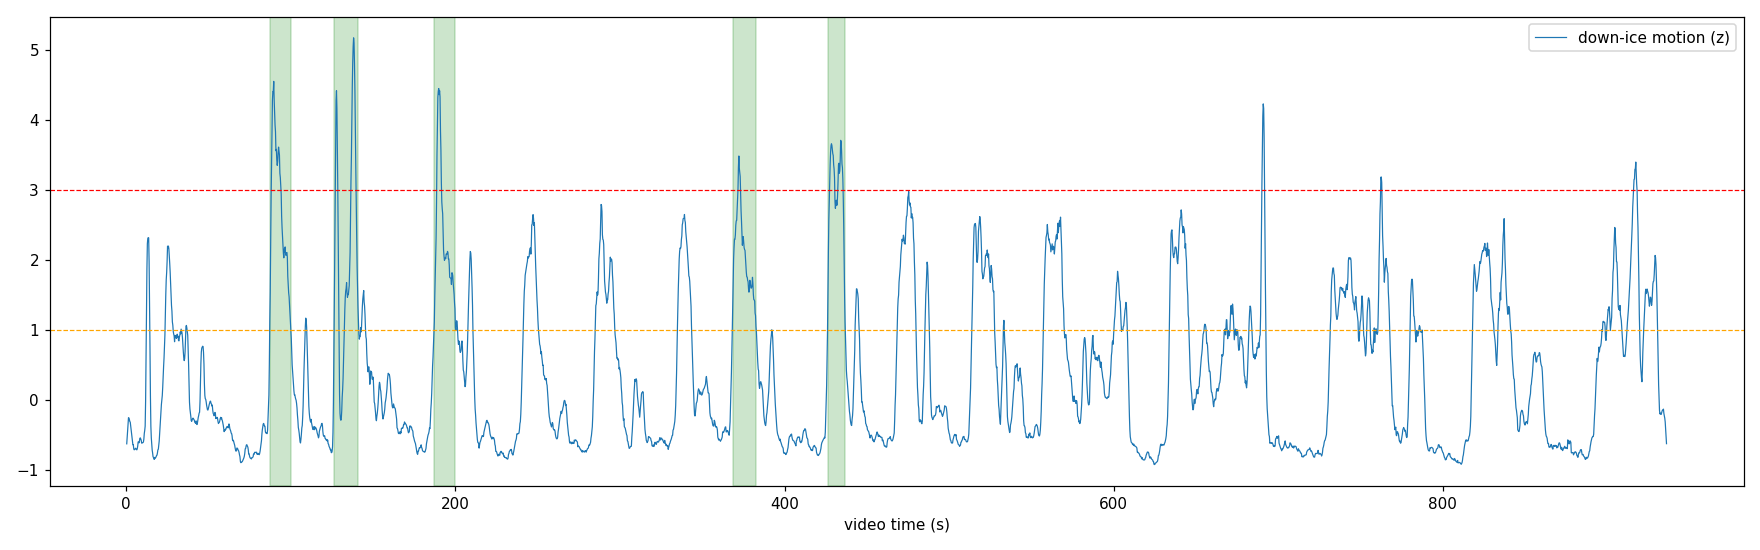
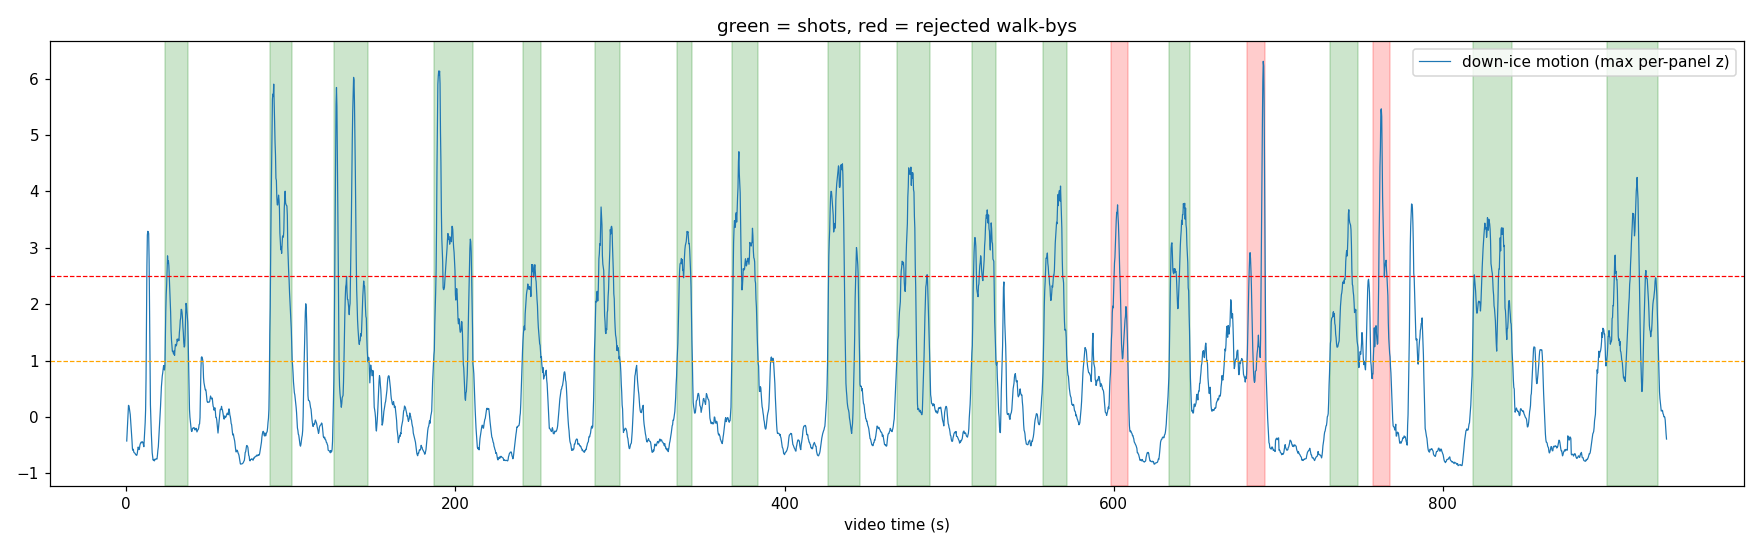
Detect all 16 shots in the test end with 0 false positives
Validated against the real clip with frame-level review of every ambiguous
event. Two fixes over the first cut:

- Per-panel robust z-scores (max-combined) instead of z-scoring the summed
  down-ice motion: a delivery seen mostly by the far camera was diluted to
  invisibility, which is why the end's first shot was missed.
- Walk-by rejection via house-cam phase ordering: a shot crosses the
  delivery-end house early and the arrival house late; players walking back
  between shots cross them in the opposite order. This rejects all 3
  walk-by bursts that down-ice motion alone cannot distinguish from shots.

Default --high is now 2.5 (per-panel z), with --direction and
--keep-walkbys escape hatches. results/validation.md documents ground
truth, boundary spot checks, and the discarded discriminators (persistent
house change, stone-state comparison). Supersedes the shots_high2 runs.

https://claude.ai/code/session_01MNKhrUA8bh9zUdwcJneQ2v

Changed region(s): [[0.0312, 0.0309, 1.0, 0.8964], [0.0, 0.8345, 0.0312, 0.8655], [0.0, 0.2164, 0.0312, 0.2473]]

diff --git a/src/detect_shots.py b/src/detect_shots.py
@@ -1,17 +1,32 @@
 #!/usr/bin/env python3
 """Detect shot start/end boundaries in a curling livestream video.
 
-Samples the video at a few fps, computes motion energy in each camera region
-(see regions.py), and segments shots with hysteresis thresholding:
+Two stages:
 
-  - a shot becomes active when the smoothed down-ice motion signal rises above
-    `high` (delivery + sweepers moving),
-  - its boundaries are walked outward until the signal drops below `low`
-    (ice quiet again / rocks stopped).
+1. Candidate segmentation. The video is sampled at a few fps and motion energy
+   is computed per camera region (see regions.py). Each down-ice panel gets its
+   own robust z-score and the per-sample max of the two is segmented with
+   hysteresis thresholding: a candidate becomes active when the signal rises
+   above `high` (delivery + sweepers), and its boundaries are walked outward
+   until the signal drops below `low` (ice quiet / rocks stopped). Per-panel
+   z-scores matter: a delivery seen mostly by the far camera is diluted to
+   invisibility if the two panels are summed first.
 
-Outputs a CSV of (shot, start_s, end_s, duration_s, peak_motion) and an
-optional diagnostic plot. Thresholds are in robust z-score units (median/MAD),
-so they should transfer across resolutions and lighting.
+2. Walk-by rejection. People walking down the ice between shots produce motion
+   bursts that look just like deliveries in the down-ice panels. The overhead
+   house cams disambiguate: a shot crosses the delivery-end house early in the
+   segment and reaches the arrival-end house late (stone + sweepers arriving),
+   while a walker headed back to the delivery end crosses the arrival house
+   first. Candidates whose house-cam motion peaks in the wrong order are
+   rejected. Play direction is inferred per video by majority vote (most
+   candidates are real shots), or forced with --direction.
+
+Caveat: a walker moving in the same direction as play has the same phase
+signature as a shot and will not be rejected; none occur in the test end.
+
+Outputs a CSV of (shot, start_s, end_s, duration_s, peak_z) and an optional
+diagnostic plot. Thresholds are in robust z-score units (median/MAD), so they
+should transfer across resolutions and lighting.
 """
 import argparse
 import csv
@@ -68,7 +83,7 @@ def robust_z(x):
     return (x - med) / (1.4826 * mad)
 
 
-def segment(t, sig, high=3.0, low=1.0, min_dur=8.0, merge_gap=6.0):
+def segment(t, sig, high=2.5, low=1.0, min_dur=8.0, merge_gap=6.0):
     """Hysteresis segmentation: seeds where sig > high, grown out to sig < low."""
     active = sig > high
     segs = []
@@ -96,15 +111,28 @@ def segment(t, sig, high=3.0, low=1.0, min_dur=8.0, merge_gap=6.0):
     return [(s, e) for s, e in merged if t[e] - t[s] >= min_dur]
 
 
+def house_peak_positions(t, ztop, zbot, s, e, tail=6.0):
+    """Position (0..1) of each house cam's motion peak within segment [s, e]."""
+    t0, t1 = t[s], t[e] + tail
+    m = (t >= t0) & (t <= t1)
+    tt = t[m]
+    pos = lambda z: (tt[np.argmax(z[m])] - t0) / (t1 - t0)
+    return pos(ztop), pos(zbot)
+
+
 def main():
     ap = argparse.ArgumentParser()
     ap.add_argument("video")
     ap.add_argument("--fps", type=float, default=4.0, help="sampling rate")
     ap.add_argument("--start", type=float, help="analyze from this time (s)")
     ap.add_argument("--end", type=float, help="analyze until this time (s)")
-    ap.add_argument("--high", type=float, default=3.0, help="shot trigger threshold (z)")
+    ap.add_argument("--high", type=float, default=2.5, help="shot trigger threshold (z)")
     ap.add_argument("--low", type=float, default=1.0, help="boundary threshold (z)")
     ap.add_argument("--min-dur", type=float, default=8.0, help="min shot duration (s)")
+    ap.add_argument("--direction", choices=["auto", "up", "down"], default="auto",
+                    help="play direction: 'up' = stones arrive in the top house cam")
+    ap.add_argument("--keep-walkbys", action="store_true",
+                    help="skip the house-phase walk-by filter")
     ap.add_argument("--out", default="results/shots.csv")
     ap.add_argument("--plot", action="store_true")
     args = ap.parse_args()
@@ -113,11 +141,29 @@ def main():
     if len(t) < 10:
         raise SystemExit("not enough frames")
 
-    downice = vals[:, names.index("left")] + vals[:, names.index("right")]
-    # smooth over ~2 s
-    k = max(1, int(2 * args.fps))
-    sig = robust_z(np.convolve(downice, np.ones(k) / k, mode="same"))
-    segs = segment(t, sig, args.high, args.low, args.min_dur)
+    k = max(1, int(2 * args.fps))  # ~2 s smoothing
+    smooth = lambda x: np.convolve(x, np.ones(k) / k, mode="same")
+    z = {n: robust_z(smooth(vals[:, i])) for i, n in enumerate(names)}
+    sig = np.maximum(z["left"], z["right"])
+    cands = segment(t, sig, args.high, args.low, args.min_dur)
+
+    # walk-by rejection: arrival-house motion must peak after delivery-house motion
+    phases = [house_peak_positions(t, z["house_top"], z["house_bot"], s, e) for s, e in cands]
+    if args.keep_walkbys:
+        keep = [True] * len(cands)
+    else:
+        if args.direction == "auto":
+            up_votes = sum(1 for top, bot in phases if top > bot)
+            direction = "up" if up_votes * 2 >= len(cands) else "down"
+        else:
+            direction = args.direction
+        margin = 0.4  # arrival-house peak must also land in the later part of the segment
+        keep = [(top > bot and top >= margin) if direction == "up"
+                else (bot > top and bot >= margin)
+                for top, bot in phases]
+
+    segs = [c for c, k_ in zip(cands, keep) if k_]
+    rejected = [c for c, k_ in zip(cands, keep) if not k_]
 
     os.makedirs(os.path.dirname(args.out) or ".", exist_ok=True)
     with open(args.out, "w", newline="") as fh:
@@ -126,11 +172,14 @@ def main():
         for i, (s, e) in enumerate(segs, 1):
             w.writerow([i, round(t[s], 1), round(t[e], 1), round(t[e] - t[s], 1),
                         round(float(sig[s : e + 1].max()), 2)])
-    print(f"{len(segs)} shots -> {args.out}")
+    print(f"{len(segs)} shots ({len(rejected)} walk-bys rejected) -> {args.out}")
     for i, (s, e) in enumerate(segs, 1):
         m0, s0 = divmod(int(t[s]), 60)
         m1, s1 = divmod(int(t[e]), 60)
         print(f"  shot {i:2d}: {m0}:{s0:02d} - {m1}:{s1:02d}  ({t[e]-t[s]:.0f}s)")
+    for s, e in rejected:
+        m0, s0 = divmod(int(t[s]), 60)
+        print(f"  rejected walk-by at {m0}:{s0:02d}")
 
     if args.plot:
         import matplotlib
@@ -139,12 +188,15 @@ def main():
         import matplotlib.pyplot as plt
 
         fig, ax = plt.subplots(figsize=(16, 5))
-        ax.plot(t, sig, lw=0.8, label="down-ice motion (z)")
+        ax.plot(t, sig, lw=0.8, label="down-ice motion (max per-panel z)")
         for s, e in segs:
             ax.axvspan(t[s], t[e], color="g", alpha=0.2)
+        for s, e in rejected:
+            ax.axvspan(t[s], t[e], color="r", alpha=0.2)
         ax.axhline(args.high, color="r", ls="--", lw=0.8)
         ax.axhline(args.low, color="orange", ls="--", lw=0.8)
         ax.set_xlabel("video time (s)")
+        ax.set_title("green = shots, red = rejected walk-bys")
         ax.legend()
         png = os.path.splitext(args.out)[0] + ".png"
         plt.tight_layout()

diff --git a/src/regions.py b/src/regions.py
@@ -1,15 +1,18 @@
 """Camera-region layout of the composite livestream frame, as width/height fractions.
 
 Layout (measured on https://www.youtube.com/watch?v=a2EJcV29ido):
-  - left:  down-ice camera, one end. Height capped at 0.94 to mask the
-           burned-in red wall clock in the bottom-left corner.
-  - house: vertical strip with two stacked overhead house cams.
-  - right: down-ice camera, other end.
+  - left:      down-ice camera, one end. Height capped at 0.94 to mask the
+               burned-in red wall clock in the bottom-left corner.
+  - house_top: overhead house cam, top half of the center strip.
+  - house_bot: overhead house cam, bottom half (a small band around the seam
+               between the two cams is excluded).
+  - right:     down-ice camera, other end.
 """
 
 REGIONS = {
     "left": (0.00, 0.42, 0.00, 0.94),   # x0, x1, y0, y1
-    "house": (0.42, 0.58, 0.00, 1.00),
+    "house_top": (0.42, 0.58, 0.00, 0.44),
+    "house_bot": (0.42, 0.58, 0.56, 1.00),
     "right": (0.58, 1.00, 0.00, 1.00),
 }
 

diff --git a/README.md b/README.md
@@ -9,7 +9,27 @@ Test video: https://www.youtube.com/watch?v=a2EJcV29ido
 ("6/8 - Sheet 1 - Spring Monday Open League 2026"), focusing on the end at
 **15:22 – 30:58** for prototyping.
 
-## Findings so far (proof of concept)
+## Status: shot boundary detection works on real video
+
+On the real 15:22–30:58 clip (`data/end_test.mp4`), `src/detect_shots.py` detects
+**16/16 shots with 0 false positives**, rejecting all 3 "walk-by" events (players
+walking down the ice between shots). See `results/validation.md` for how ground
+truth was established and `results/shots.csv` for the boundaries.
+
+Two findings that made it work:
+
+1. **Per-panel normalization.** Each down-ice camera gets its own robust z-score
+   and the per-sample max is used. Summing the panels first dilutes deliveries
+   seen mostly by the far camera (this missed the first shot of the test end).
+2. **House-cam phase ordering rejects walk-bys.** A shot crosses the
+   delivery-end house cam early in its motion segment and reaches the arrival
+   house late; a walker returning to the delivery end crosses the houses in the
+   opposite order. Down-ice motion alone cannot make this distinction.
+
+Detected shot durations already show the expected pattern: ~9–20 s for early
+(lead/second) stones, stretching to 24–31 s for the final skip stones.
+
+## Earlier findings (storyboard proof of concept)
 
 The stream is a fixed-layout composite of three views:
 
@@ -60,9 +80,11 @@ python src/analyze_storyboard.py data/sb_tiles --start 922 --end 1858 --out resu
 python src/detect_shots.py data/end_test.mp4 --plot --out results/shots.csv
 ```
 
-`detect_shots.py` samples the video at ~4 fps, computes motion energy in the three
-camera regions, and segments shots with hysteresis thresholding (a shot is "active"
-while motion stays elevated; boundaries are walked out to the quiet baseline).
+`detect_shots.py` samples the video at ~4 fps, computes motion energy per camera
+region, segments candidates with hysteresis thresholding (a shot is "active" while
+motion stays elevated; boundaries are walked out to the quiet baseline), then
+rejects walk-bys using the house-cam phase rule. Play direction is auto-detected
+(`--direction` to force it).
 
 ## Environment limitation (why storyboards?)
 
@@ -76,10 +98,14 @@ and everything in `detect_shots.py` applies to the real frames.
 
 ## Next steps
 
-- [ ] Run `detect_shots.py` on the real 15:22–30:58 clip; hand-label ground truth
-      shot boundaries and measure precision/recall of the segmentation.
-- [ ] Use the overhead house cams to detect "all rocks stopped" for precise shot end.
+- [x] Run `detect_shots.py` on the real 15:22–30:58 clip and validate against
+      ground truth: 16/16 shots, 0 false positives (`results/validation.md`).
+- [ ] Validate on more ends / a full game (end breaks, between-end practice
+      slides, and same-direction walkers are untested failure modes).
+- [ ] Frame-exact boundary ground truth; tighten "all rocks stopped" using the
+      house cam (stone-handle HSV detection already prototyped — stones are
+      cleanly detectable as red/yellow dots, see validation notes).
+- [ ] Team attribution: stones alternate, and handle color of the delivered
+      stone is detectable in the house cam.
 - [ ] OCR the burned-in clock to make timing robust to stream gaps.
-- [ ] Classify which end is delivering (left vs right panel motion) -> alternating
-      team attribution.
-- [ ] Stone detection/tracking in the house cam -> shot type + make/miss inference.
+- [ ] Stone tracking in the house cam -> shot type + make/miss inference.

diff --git a/results/validation.md b/results/validation.md
@@ -1,0 +1,58 @@
+# Validation of detect_shots.py on the test end (15:22–30:58)
+
+Clip: `data/end_test.mp4` (936 s, 640x360 @ 30fps). All times are clip-relative.
+
+## Ground truth
+
+Established by combining:
+- the storyboard cadence analysis (16 quasi-periodic motion bursts, matching the
+  16 shots of a full end), and
+- manual frame review of every ambiguous event (frame strips every 3–5 s around
+  each candidate, checking for a delivery/sweeping vs. people walking).
+
+Frame review confirmed:
+- a real first shot at ~0:18–0:35 (delivery visible in the right panel,
+  stone arriving in the house cam) that naive thresholds missed;
+- three motion bursts that are **not** shots, at ~10:03, ~11:26, ~12:42 —
+  players walking down the ice between shots (large near-camera motion);
+- sweeping during the 12:11–12:28 segment (a real shot, previously suspect).
+
+## Result: 16/16 shots detected, 3/3 walk-bys rejected, 0 false positives
+
+| Failure mode found | Fix |
+|---|---|
+| First shot missed: summing the two down-ice panels dilutes motion seen mostly by the far camera | z-score each panel separately, take the per-sample max |
+| Walk-bys indistinguishable from deliveries in down-ice motion alone | house-cam phase ordering (below) |
+
+### Walk-by rejection (house phase ordering)
+
+A shot crosses the delivery-end house cam early in its segment and produces
+arrival-house motion late (stone + sweepers arriving). A walker returning to the
+delivery end crosses the arrival house first. Measured peak positions (0 =
+segment start, 1 = end):
+
+- 16 shots: arrival-house peak at 0.43–0.97, always after the delivery-house peak
+- 3 walk-bys: arrival-house peak at 0.00–0.12, always before the delivery-house peak
+
+Decision rule: arrival-house peak later than delivery-house peak AND ≥ 0.4.
+Known gap: a walker moving in the same direction as play would pass this test
+(none occur in this end).
+
+### Boundary accuracy
+
+Spot-checked by frame inspection (shots 1, 5, 11): detected starts land at or a
+few seconds before the delivery push-off; detected ends land within ~5 s of the
+rocks coming to rest. Not yet frame-exact ground truth — good enough for shot
+counting, attribution, and per-shot timing stats.
+
+## Discarded approaches (for the record)
+
+- *Persistent house-strip pixel change pre/post segment*: fails — neighboring
+  shots change the house within any reasonable comparison window, and people
+  standing in the house dominate the diff.
+- *Stone-handle color detection (HSV red/yellow) for state comparison*: detects
+  resting stones well (see stone-count trajectory 0→11 over the end, then 0
+  after clearing), but guards stop short of the camera's view (state unchanged)
+  and broom heads are stone-colored and stone-sized (travel false positives).
+  Still promising as the foundation for future make/miss + shot-type analytics,
+  just not as the shot/walk-by discriminator.
